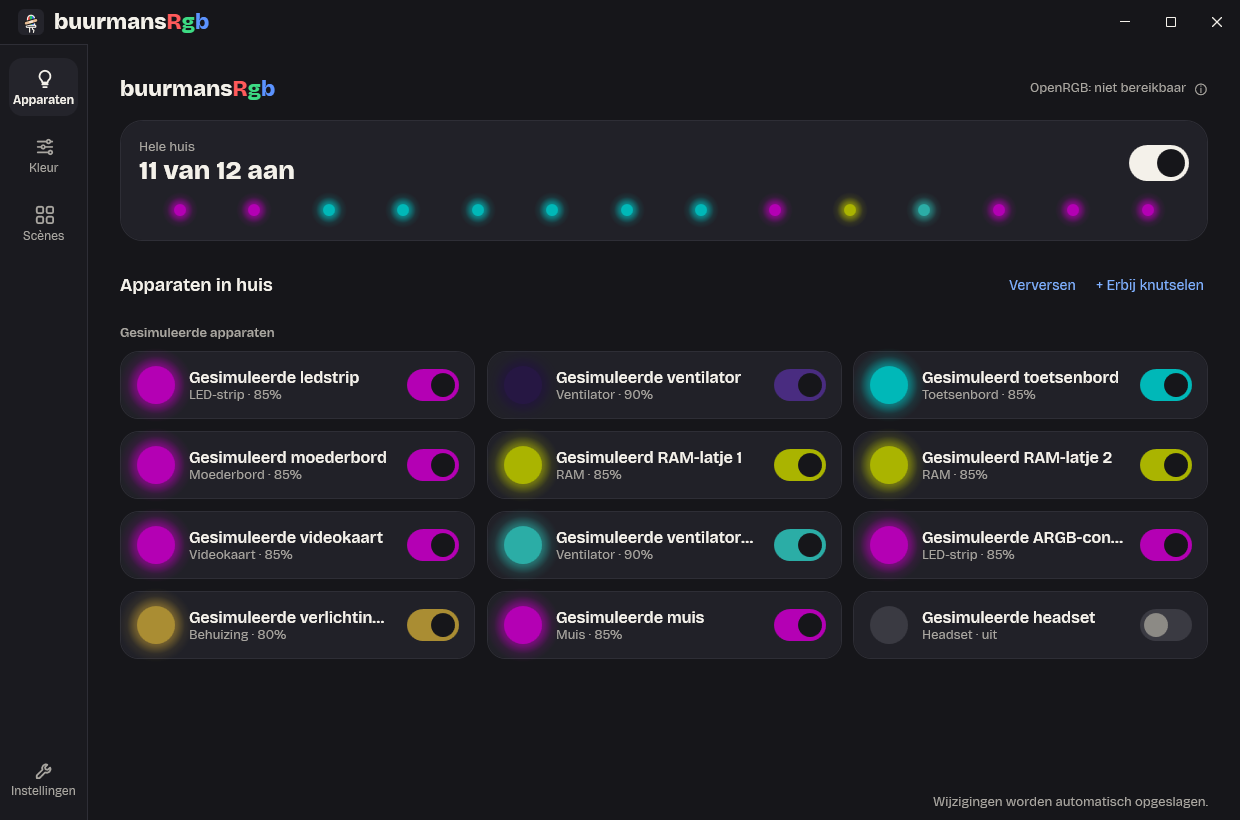
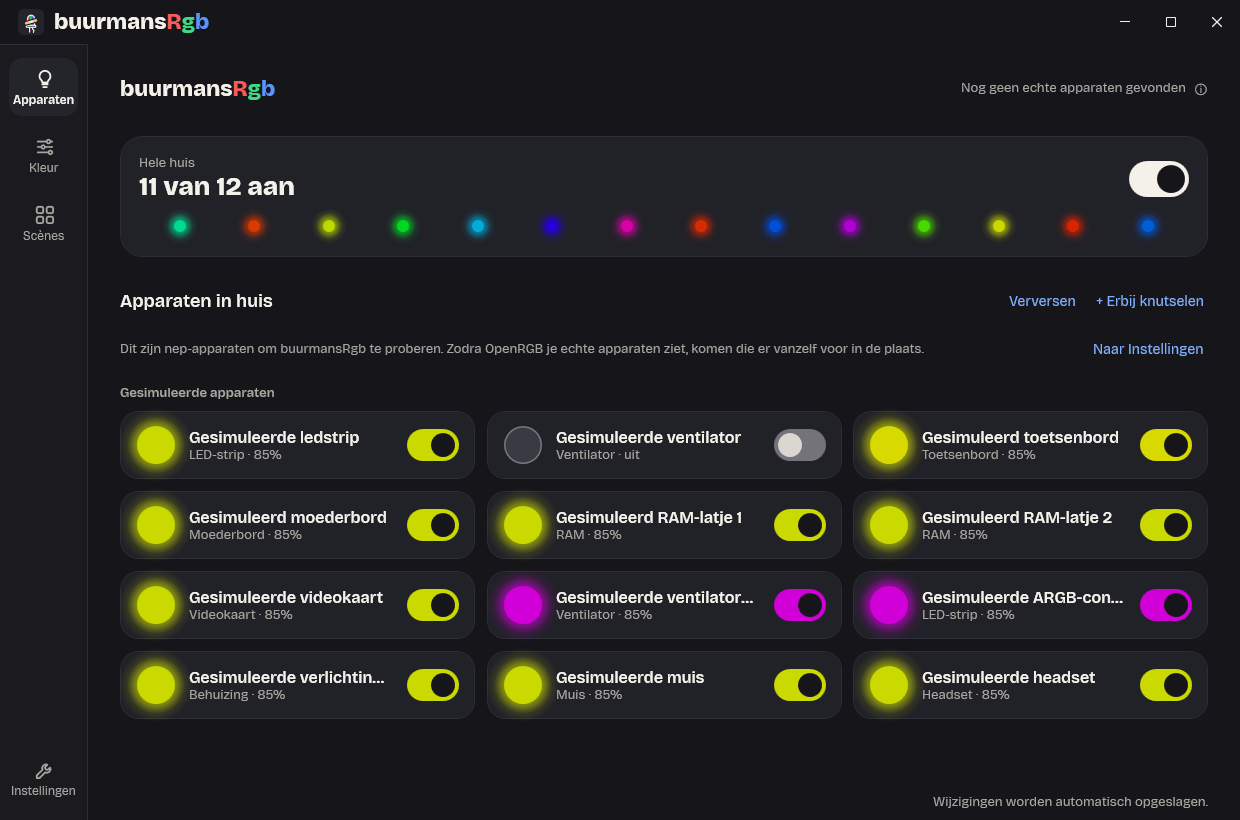
docs: add screenshots of the status line

diff --git a/docs/handleiding.md b/docs/handleiding.md
@@ -119,6 +119,8 @@ Windows, zie hieronder), met een eigen titelbalk en links een navigatiebalk met 
   meer onder, dan gaat Details vanzelf dicht en weg. Is er niets te melden, dan is er geen kaart.
   Een schermlezer leest de melding in de regel als hij komt of verandert; de knoppen en Details
   bereik je met Tab. Dezelfde statusregel staat bovenaan Kleur.
+
+  ![De pagina Apparaten zonder verbinding: de statusregel "Geen verbinding met je apparaten" met "Opnieuw verbinden" en Details open, daaronder de pauze met "Hervatten", en rechtsboven de status met "Herstarten"](images/statusregel.png)
 - De kaart **Hele huis** zegt hoeveel apparaten aan zijn ("11 van 12 aan"), heeft een grote
   schakelaar voor alles en een strip van 14 bolletjes die laat zien wat de apparaten nu echt doen:
   elk bolletje is een LED uit alle apparaten achter elkaar, dus bij een regenboog loopt hij mee.
@@ -751,22 +753,22 @@ Hoe het vanzelf aanzetten werkt:
 - **Opstarten:** "Starten met Windows" doet hetzelfde als het item in het tray-menu (zie "Starten
   met Windows" bij het tray-icoon): aan start buurmansRgb als je je aanmeldt bij Windows. Het
   geldt meteen; het staat in Windows zelf en niet bij de instellingen die de engine bewaart, dus
-  er komt geen "Opgeslagen ✓" in de statusregel. De schakelaar en het vinkje in het tray-menu
+  er komt geen "Opgeslagen ✓" onderaan. De schakelaar en het vinkje in het tray-menu
   staan altijd hetzelfde: zet je het in het menu om, dan gaat de schakelaar meteen mee, en het
   menu toont wat je hier koos. Laat Windows het niet toe (het register is niet te schrijven),
-  dan springt de schakelaar terug en staat in de statusregel "Starten met Windows kon niet
+  dan springt de schakelaar terug en staat onderaan "Starten met Windows kon niet
   worden aangepast."; het logbestand zegt waarom.
 - **Logbestand:** "Logbestand openen" opent `engine.log` (zie "Logbestanden") in Kladblok of het
   programma dat bij `.log` hoort, net als het item in het tray-menu. Dat werkt ook als de engine
   niet draait of de app hem niet bereikt; je ziet dan het log van de laatste keer. Is er nog geen
-  logbestand, of kan Windows het niet openen, dan staat in de statusregel "Het logbestand kon
+  logbestand, of kan Windows het niet openen, dan staat onderaan "Het logbestand kon
   niet worden geopend.".
 - **Versie:** onderaan staat het versienummer van buurmansRgb (bijv. "buurmansRgb 1.2.0"). Een
   link naar deze handleiding staat er nog niet: die komt zodra de handleiding een plek heeft die
   iedereen kan openen.
 
-Wijzigingen worden automatisch opgeslagen; of dat gelukt is, staat rechtsonder in de statusregel
-("Opgeslagen ✓" met de tijd, zie "Onderaan"), zoals op elke pagina. "Starten met Windows" is de
+Wijzigingen worden automatisch opgeslagen; of dat gelukt is, staat rechtsonder ("Opgeslagen ✓"
+met de tijd, zie "Onderaan"), zoals op elke pagina. "Starten met Windows" is de
 uitzondering (zie "Opstarten").
 
 ### Aan en uit

diff --git a/README.md b/README.md
@@ -26,6 +26,9 @@
   zolang een spel draait.
 - **Slim met je pc:** pauzeert bij vergrendelen, slaapstand, scherm uit en schermbeveiliging en
   zet de kleuren na het ontwaken terug.
+- **Eén melding tegelijk:** bovenaan staat hooguit één statusregel met wat je nu moet weten (de
+  verbinding weg, een pauze, het voorbeeld dat stilstaat) en de knop die het oplost; de status
+  van je apparaten staat in gewone taal, met "Herstarten" als de verbinding weg is.
 - **Werkt zonder hardware:** zonder OpenRGB staan er twaalf gesimuleerde apparaten klaar om mee te
   spelen.
 
